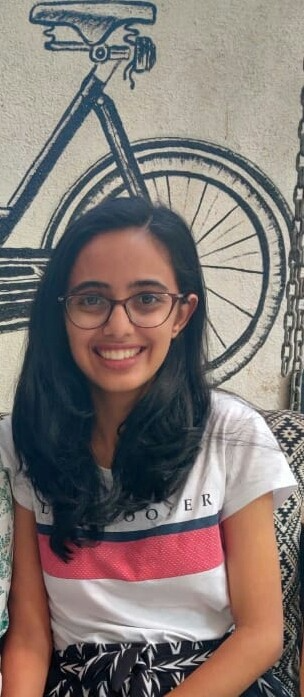
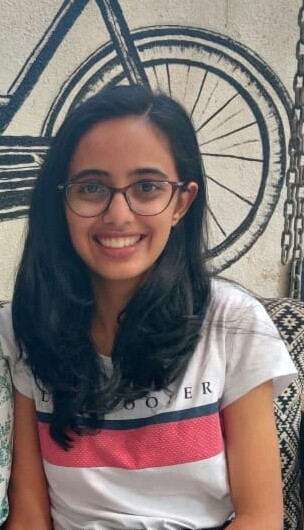
photos again

diff --git a/our-team/index.html b/our-team/index.html
@@ -802,7 +802,7 @@
         <div class="overflow-hidden position-relative width-100">
           <div class="position-relative">
             <div class="img-wrapper">
-              <img src="../res/images/team/soha_parasnis_2.jpg" alt=""/>
+              <img src="../res/images/team/sp1.jpg" alt=""/>
             </div>
           </div>
           <!-- //.position-relative -->
